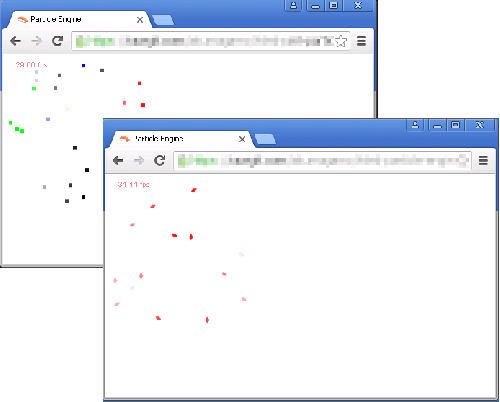
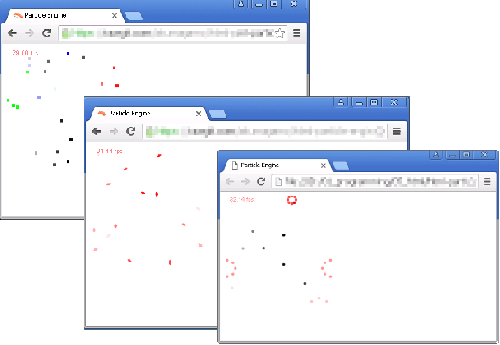
Adds onBorderCollision Event to the Particle emitter

diff --git a/source/js/script.js b/source/js/script.js
@@ -110,7 +110,7 @@ window.onload = function(){
         renderObjectsOnScreen: function(){
             for(var idx=0; idx<this.objectsToRender.length; idx++){
                 var objectToRender = this.objectsToRender[idx];                
-                ParticleEmitterRunner.render(this.context, {top:this.top, left:this.left, bottom:this.bottom, right: this.right}, objectToRender);
+                ParticleEmitterRunner.render(this.context, objectToRender);
             }
             this.increaseFrameRateCount();
         },
@@ -152,7 +152,6 @@ window.onload = function(){
             for (var idx = 0; idx < particleemitter.emitVectors.length; idx++) {
                 var emitVector = particleemitter.emitVectors[idx];
                 newParticle = Object.assign({}, particle);
-
                 newParticle.getColor = particle.getColor;
                 newParticle.vx = emitVector.x;
                 newParticle.vy = emitVector.y;
@@ -163,7 +162,11 @@ window.onload = function(){
                 }
                 particleemitter.emitedParticles.push(newParticle);
             }
-            
+        },
+        emitBorderCollision: function(particleemitter, particle){
+            if(particleemitter.onBorderCollision !== undefined){
+                particleemitter.onBorderCollision(particle);
+            }
         },
         calculateNextTick: function(particleemitter, borders){
             this.cleanupDestroyedParticles(particleemitter);
@@ -176,26 +179,33 @@ window.onload = function(){
                     particle.y += particle.vy * particle.speed;
                     particle.x += particle.vx * particle.speed;
 
-                    if(borders.bottom!== undefined && borders.bottom < particle.y + particle.size){
-                        particle.vy *= VERTICAL_DRAG;
-                        particle.vx *= HORIZANTAL_DRAG;
-                        particle.y = borders.bottom - particle.size;
-                    }
-
-                    if(borders.top!== undefined && borders.top > particle.y - particle.size){
-                        particle.vy *= VERTICAL_DRAG;
-                        particle.vx *= HORIZANTAL_DRAG;
-                        particle.y = borders.top + particle.size;
-                    }
-
-                    if(borders.left!== undefined && borders.left > particle.x - particle.size){
-                        particle.vx *= -HORIZANTAL_DRAG;
-                        particle.x = borders.left + particle.size;
-                    }
-
-                    if(borders.right!== undefined && borders.right < particle.x + particle.size){;
-                        particle.vx *= -HORIZANTAL_DRAG;
-                        particle.x = borders.right - particle.size;
+                    if(borders!==undefined){
+                        var hasCollided = false;
+                        if(borders.bottom!== undefined && borders.bottom < particle.y + particle.size){
+                            particle.vy *= VERTICAL_DRAG;
+                            particle.vx *= HORIZANTAL_DRAG;
+                            particle.y = borders.bottom - particle.size;
+                            hasCollided = true; 
+                        }
+                        if(borders.top!== undefined && borders.top > particle.y - particle.size){
+                            particle.vy *= VERTICAL_DRAG;
+                            particle.vx *= HORIZANTAL_DRAG;
+                            particle.y = borders.top + particle.size;
+                            hasCollided = true;
+                        }
+                        if(borders.left!== undefined && borders.left > particle.x - particle.size){
+                            particle.vx *= -HORIZANTAL_DRAG;
+                            particle.x = borders.left + particle.size;
+                            hasCollided = true;
+                        }
+                        if(borders.right!== undefined && borders.right < particle.x + particle.size){;
+                            particle.vx *= -HORIZANTAL_DRAG;
+                            particle.x = borders.right - particle.size;
+                            hasCollided = true;
+                        }
+                        if(hasCollided){
+                            this.emitBorderCollision(particleemitter, particle);
+                        }
                     }
 
                 } else {
@@ -224,7 +234,7 @@ window.onload = function(){
                     b: particleemitter.particleColor.b, 
                     a: particleemitter.particleColor.a},
                 getColor: function () {
-                    this.color.a = (1 - ((new Date()).getTime() - this.createTime) / this.maxLifeSpan);
+                    this.color.a = Math.max((1 - ((new Date()).getTime() - this.createTime) / this.maxLifeSpan), 0);
                     return `rgba(${this.color.r}, ${this.color.g}, ${this.color.b}, ${this.color.a})`;
                 }
             };
@@ -232,14 +242,14 @@ window.onload = function(){
         isParticleAlive: function(particle){
             return  (new Date()).getTime() - particle.createTime <= particle.maxLifeSpan;
         },
-        render: function(context, borders, particleemitter){
-            this.calculateNextTick(particleemitter, borders);
+        render: function(context, particleemitter){
+            this.calculateNextTick(particleemitter, particleemitter.borders);
             for (var idx = 0; idx < particleemitter.emitedParticles.length; idx++) {
                 var particle = particleemitter.emitedParticles[idx];
                 if(particleemitter.renderer){
                     particleemitter.renderer(context, particle);
                 }else{
-                    RenderHelper.drawCircle(context, particle.x, particle.y, (particle.size / 2) * particle.color.a, particle.getColor());
+                    RenderHelper.drawCircle(context, particle.x, particle.y, (particle.size / 2) , particle.getColor());
                 }
             } 
         }
@@ -247,34 +257,53 @@ window.onload = function(){
 
     var particleEngineTest = () =>{
 
-        var baseParticleEmitter1 = {
+        var sprite  = new Image(10, 10);
+        sprite.src = 'img/sprite.png';
+
+        var explosionParticleEmitter = {
+            emitedParticles:[],
+            emitPoint: {x: canvas.width / 2, y: canvas.height / 2},
+            emitVectors: [
+                {x: -1, y: 0}, 
+                {x: -0.7, y: -0.7}, 
+                {x: 0, y: -1}, 
+                {x: 0.7, y: -0.7}, 
+                {x: 1, y: 0}, 
+                {x: 0.7, y: 0.7}, 
+                {x: 0, y: 1},
+                {x: -0.7, y: 0.7}
+            ],
+            emitSpeed: speed * 1.5,
+            particleMaxLifeSpan: 500,
+            particleSize: 5,
+            particleColor: {r:255, g:0, b:0, a:1},
+            shouldRandomizeEmitVector: true
+        };
+
+        var baseParticleEmitter = {
+           borders: {
+                    left: 30,
+                    top: 30,
+                    right: canvas.width - 30,
+                    bottom: canvas.height - 30
+            },
             emitedParticles:[],
             emitPoint: {x: canvas.width / 2, y: canvas.height -60},
             emitVectors: [{x:vx, y:vy}, {x:-vx, y:vy}, {x:-vx-1, y:vy}],
             emitSpeed: speed,
             particleMaxLifeSpan: MAX_LIFE_SPAN,
-            particleSize: size,
+            particleSize: size * 3,
             particleColor: {r:0, g:0, b:0, a:1},
-            shouldRandomizeEmitVector: true
-        };
-
-        var baseParticleEmitter2 = {
-            emitedParticles:[],
-            emitPoint: {x: canvas.width / 2, y: canvas.height / 2},
-            emitVectors: [{x:-2, y:-2}, {x:1, y:-3}, {x:2, y:-2}],
-            emitSpeed: speed * 1.5,
-            particleMaxLifeSpan: MAX_LIFE_SPAN,
-            particleSize: size ,
-            particleColor: {r:255, g:0, b:0, a:1},
             shouldRandomizeEmitVector: true,
-            renderer : (context, particle) =>{
-              RenderHelper.drawThirdOfACircle(context, 
-                    particle.x, 
-                    particle.y, 
-                    particle.size, 
-                    particle.index, 
-                    0, 
-                    particle.getColor());
+            onBorderCollision: (particle) => {
+                particle.isDestroyed = true;
+                explosionParticleEmitter.emitPoint.x = particle.x;
+                explosionParticleEmitter.emitPoint.y = particle.y;
+                ParticleEmitterRunner.emit(explosionParticleEmitter)
+            },
+            renderer: function(context, particle){
+                context.drawImage(sprite, particle.x, particle.y, particle.size, particle.size);
+
             }
         };
 
@@ -286,17 +315,15 @@ window.onload = function(){
             bottom: canvas.height
         });
 
-       // Engine.addObjectToRender(baseParticleEmitter1);
-        Engine.addObjectToRender(baseParticleEmitter2);
+        Engine.addObjectToRender(baseParticleEmitter);
+        Engine.addObjectToRender(explosionParticleEmitter);
 
         Engine.startRender();
 
         setInterval(()=> {
-           // ParticleEmitterRunner.emit(baseParticleEmitter1);
-            ParticleEmitterRunner.emit(baseParticleEmitter2);
+            ParticleEmitterRunner.emit(baseParticleEmitter);
         }, RENDER_TIMING*20);
     };
 
     particleEngineTest();
-
 }

diff --git a/README.md b/README.md
@@ -1,10 +1,9 @@
 # Particle Emiting Engine for Canvas
-## Versionnumber 0.4.0 (2016-08-21) Beta
-(***Documentation last update 2016-08-21 11:45***)
+## Versionnumber 0.4.1 (2016-08-21) Beta
+(***Documentation last update 2016-08-21 21:30***)
 
 Particle Emiting Engine with html5 canvas  
 ![Screenshot four particle-emitters](https://raw.githubusercontent.com/akumagamo/html-particle-engine/master/readme/screenshot_01.png "Screenshot after some seconds")  
-  
 [Small demo](https://rawgit.com/akumagamo/html-particle-engine/master/source/index.html)
 
 ## Features
@@ -17,6 +16,7 @@ Particle Emiting Engine with html5 canvas
   * toggle framerate display
 * "gravity" and "ambient Drag"
 * paritcle bounce of walls top, right, bottom, left
+* onBorderCollision Event
 
 ## WIP    
 
@@ -24,7 +24,6 @@ Particle Emiting Engine with html5 canvas
 * emit adaptaions
   * emit automatic particles in specified time interval
   * emit only specified amount of particels in specified time interval 
-* particle render image (png)
 * particle render rotation
 
 ## Known Bugs
@@ -35,18 +34,18 @@ Particle Emiting Engine with html5 canvas
             left: 0,
             top: 0,
             right: canvas.width,
-            bottom:canvas.height
+            bottom: canvas.height
       });
 
       // Add ParticleEmiter 
       var particleEmitter = {
             emitedParticles: [],
             emitPoint: {x: 50, y: 100},
-            emitVectors: [{x:1, y:1}, {x:-1, y:1}, {x:-1, y:1}],
+            emitVectors: [{x: 1, y: 1}, {x: -1, y: 1}, {x: -1, y: 1}],
             emitSpeed: 1,
             particleMaxLifeSpan: 1000,
             particleSize: size,
-            particleColor: {r:0, g:0, b:0, a:1},
+            particleColor: {r: 0, g: 0, b: 0, a: 1},
             shouldRandomizeEmitVector: true
         };
       Engine.addObjectToRender(particleEmitter);
@@ -77,19 +76,21 @@ https://github.com/akumagamo/html-particle-engine.git
        +- LICENSE
 
 ### Options for the Engine init
-* context:                    canvas context
-* left:                       Border left
-* top:                        Border top
-* right:                      Border right
-* bottom:                     Border bottom
+* **context:**                    canvas context
+* **left:**                       Draw left limit
+* **top:**                        Draw top limit
+* **right:**                      Draw right limit
+* **bottom:**                     Draw bottom limit
 
 ### Options for the ParticleEmitter
-
-* emitedParticles:            Array for storing emited particles
-* emitPoint:                  Point from where the particles will be emitted
-* emitVectors:                Array with the Vectors for emiting, will be ignored if **shouldRandomizeEmitVector** is set to **true**
-* emitSpeed:                  Speed of emitted particle
-* particleMaxLifeSpan:        Lifespan of created particles in **ms**
-* particleSize:               Particle Size
-* particleColor:              RGBA color Object
-* shouldRandomizeEmitVector:  property if the EmitVector should be randomizied at every emit
+* **borders:**                    Border where the particles collided 
+* **emitedParticles:**            Array for storing emited particles
+* **emitPoint:**                  Point from where the particles will be emitted
+* **emitVectors:**                Array with the Vectors for emiting, will be ignored if **shouldRandomizeEmitVector** is set to **true**
+* **emitSpeed:**                  Speed of emitted particle
+* **particleMaxLifeSpan:**        Lifespan of created particles in **ms**
+* **particleSize:**               Particle Size
+* **particleColor:**              RGBA color Object
+* **renderer:**                   Custom Render function for particles
+* **onBorderCollision:**          Event Listener function, called on collision
+* **shouldRandomizeEmitVector:**  property if the EmitVector should be randomizied at every emit
